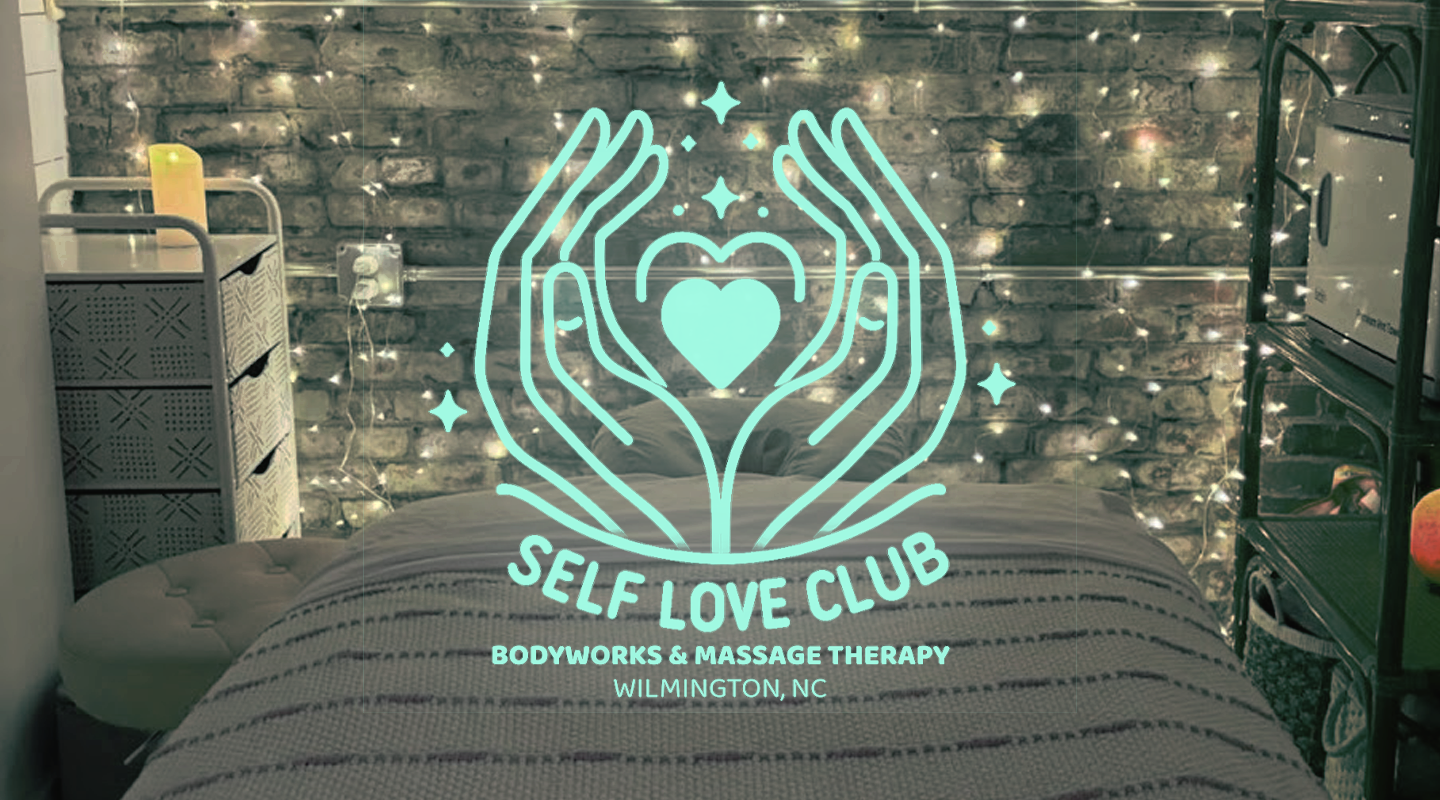
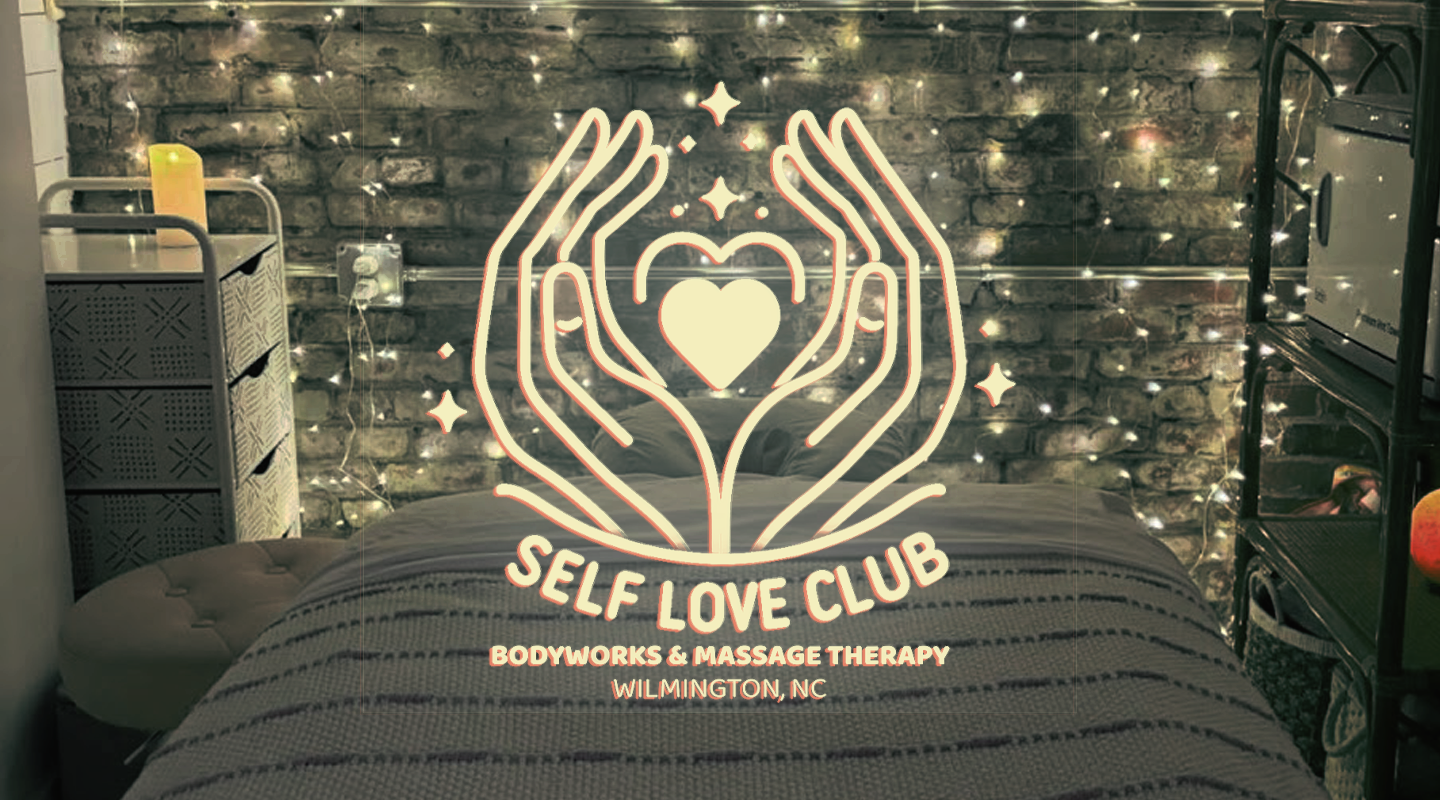
edited styles

Changed region(s): [[0.2812, 0.0938, 0.7188, 0.875]]

diff --git a/app/(root)/blog/page.tsx b/app/(root)/blog/page.tsx
@@ -1,46 +1,22 @@
-
+// page.tsx
 import Background from "@/components/shared/background";
 import Services from "@/components/shared/services";
 import Hours from "@/components/shared/hours";
 import Location from "@/components/shared/location";
-import Link from "next/link";
 import ThemeToggle from "@/components/shared/theme-toggle";
-
-
+import Link from "next/link";
+import BlogFeed from "@/components/blog/blog-feed";
 
 async function Blog() {
-
   return (
-    <section className='main-container'>
+    <section className="main-container">
       <Background />
-        <h1 className="pageTitle">SELF LOVE BLOG</h1>
-
-        <Link  href="/blog/common-myths-about-massage-therapy-debunked" className="flex mx-auto font-black p-4 text-xl hover:text-teal-700">Common Myths About Massage Therapy Debunked</Link>
-
-        <Link  href="/blog/how-massage-therapy-helps-reduce-inflammation" className="flex mx-auto font-black p-4 text-xl hover:text-teal-700">How Massage Therapy Helps Reduce Inflammation</Link>
-
-        <Link  href="/blog/how-massage-therapy-supports-emotional-well-being" className="flex mx-auto font-black p-4 text-xl hover:text-teal-700">How Massage Therapy Supports Emotional Well-being</Link>
-
-        <Link  href="/blog/massage-and-mobility-improving-your-range-of-motion" className="flex mx-auto font-black p-4 text-xl hover:text-teal-700">Massage and Mobility: Improving Your Range of Motion</Link>
-
-        <Link  href="/blog/stress-and-shoulder-tension-the-connection" className="flex mx-auto font-black p-4 text-xl hover:text-teal-700">Stress and Shoulder Tension: The Connection</Link>
-
-        <Link  href="/blog/the-amazing-benefits-of-pregnancy-massage" className="flex mx-auto font-black p-4 text-xl hover:text-teal-700">The Amazing Benefits of Pregnancy Massage: Relief for Back and Leg Pain</Link>
-
-        <Link  href="/blog/the-importance-of-self-care-during-stressful-times" className="flex mx-auto font-black p-4 text-xl hover:text-teal-700">The Importance of Self-Care During Stressful Times</Link>
-
-        <Link  href="/blog/why-consistency-matters" className="flex mx-auto font-black p-4 text-xl hover:text-teal-700">Why Consistency Matters: The Benefits of Regular Massage</Link>
-
-        <Link  href="/blog/why-massage-should-be-part-of-your-marathon-training" className="flex mx-auto font-black p-4">Why Massage Should Be Part of Your Marathon Training</Link>
-
-        <Link  href="/blog/why-neck-pain-is-so-common-and-how-massage-helps" className="flex mx-auto font-black p-4 pb-4">Why Neck Pain Is So Common and How Massage Helps</Link>
-        <br />
-        <br />
-        <br />
-        <Services />
-        <Hours />
-        <Location />
-        <ThemeToggle />
+      <h1 className="pageTitle text-4.4rem sm:text-2.2rem font-black pt-29 pb-12">SELF LOVE BLOG</h1>
+      <BlogFeed />
+      <Services />
+      <Hours />
+      <Location />
+      <ThemeToggle />
     </section>
   );
 }

diff --git a/lib/blog-index.ts b/lib/blog-index.ts
@@ -1,0 +1,63 @@
+export const blogPost = [
+    {
+      title: "Stress and Shoulder Tension: The Connection",
+      url: "/blog/stress-and-shoulder-tension-the-connection",
+      snippet: "Learn how stress contributes to shoulder tension and how massage therapy can help alleviate it.",
+      image: "",
+    },
+    {
+      title: "How Massage Therapy Helps Reduce Inflammation",
+      url: "/blog/how-massage-therapy-helps-reduce-inflammation",
+      snippet: "Discover how massage therapy can reduce inflammation and promote overall well-being.",
+      image: "",
+    },
+    {
+      title: "Common Myths About Massage Therapy Debunked",
+      url: "/blog/common-myths-about-massage-therapy-debunked",
+      snippet: "Uncover the truth behind some of the most common myths surrounding massage therapy.",
+      image: "",
+    },
+    {
+      title: "The Importance of Self-Care During Stressful Times",
+      url: "/blog/the-importance-of-self-care-during-stressful-times",
+      snippet: "Why self-care is more crucial than ever in times of stress, and how massage can help.",
+      image: "",
+    },
+    {
+      title: "How Massage Therapy Supports Emotional Well-being",
+      url: "/blog/how-massage-therapy-supports-emotional-well-being",
+      snippet: "Explore the emotional benefits of regular massage therapy sessions.",
+      image: "",
+    },
+    {
+      title: "Massage and Mobility: Improving Your Range of Motion",
+      url: "/blog/massage-and-mobility-improving-your-range-of-motion",
+      snippet: "How massage therapy can help enhance your flexibility and range of motion.",
+      image: "",
+    },
+    {
+      title: "Why Neck Pain Is So Common and How Massage Helps",
+      url: "/blog/why-neck-pain-is-so-common-and-how-massage-helps",
+      snippet: "Understanding the causes of neck pain and how massage can provide relief.",
+      image: "",
+    },
+    {
+      title: "Why Massage Should Be Part of Your Marathon Training",
+      url: "/blog/why-massage-should-be-part-of-your-marathon-training",
+      snippet: "Learn why incorporating massage into your marathon training is essential for recovery.",
+      image: "",
+    },
+    {
+      title: "Why Consistency Matters: The Benefits of Regular Massage",
+      url: "/blog/why-consistency-matters",
+      snippet: "Discover the benefits of consistent, regular massage therapy sessions.",
+      image: "",
+    },
+    {
+      title: "The Amazing Benefits of Pregnancy Massage: Relief for Back and Leg Pain",
+      url: "/blog/the-amazing-benefits-of-pregnancy-massage",
+      snippet: "How pregnancy massage provides relief for back and leg pain during pregnancy.",
+      image: "",
+    },
+  ];
+  

diff --git a/components/blog/blog-feed.tsx b/components/blog/blog-feed.tsx
@@ -1,0 +1,74 @@
+"use client"
+
+import Link from "next/link";
+import { blogPost } from "@/lib/blog-index"; // Import blog data
+import SectionHeading from "../shared/section-heading";
+import { motion } from "framer-motion";
+import Tooltip from "@/components/ui/tooltip";
+
+const fadeInAnimationVariants = {
+  initial: {
+    opacity: 0,
+    y: 100,
+  },
+  animate: (index: number) => ({
+    opacity: 1,
+    y: 0,
+    transition: {
+      delay: 0.05 * index,
+    },
+  }),
+};
+
+export default function BlogFeed() {
+    return (
+      <section
+        id="BlogPosts"
+        className="max-w-[53rem] scroll-mt-22 text-center sm:mb-20"
+      >
+          <motion.div
+              initial={{
+                  opacity: 0,
+                  }}
+              whileInView={{
+                  opacity: 1,
+                  }}
+              transition={{
+                  duration: 1,
+                  }}
+              viewport={{
+                  once: true,
+                  }}
+              >
+            <SectionHeading>BLOG POSTS</SectionHeading>
+            <section className="max-w-4xl tracking-widest mx-auto pb-9 font-black text-xl">
+            <ul className="flex flex-wrap justify-center text-5xl gap-2 text-gray-800">
+
+                {blogPost.map((post, index) => (
+                <motion.li
+                    className="bg-slate-50 hover:bg-[#f4f0bf] border-dark-1 rounded-xl px-2 py-2 shadow-sm"
+                    key={index}
+                    variants={fadeInAnimationVariants}
+                    initial="initial"
+                    whileInView="animate"
+                    viewport={{ once: true }}
+                    custom={index}
+                >
+                    <Tooltip content={post.snippet} position="top">
+                        <Link
+                            key={post.url}
+                            href={post.url}
+                            className="mx-auto flex p-4 hover:text-teal-700"
+                        >
+                            {post.title}
+                        </Link>
+                    </Tooltip>
+                </motion.li>
+                ))}
+            </ul>
+            </section>
+          </motion.div>
+      </section>
+    );
+  }
+  

diff --git a/components/ui/button.tsx b/components/ui/button.tsx
@@ -8,12 +8,12 @@ const ButtonVariants = cva(
   {
     variants: {
       variant: {
-        default: 'bg-emerald-200 text-primary-foreground hover:bg-green-100',
-        secondary: 'bg-[#a8aeaf] text-[#03090a] hover:bg-gray-600',
-        outline: 'border border-primary text-primary hover:bg-gray-100',
-        ghost: 'bg-transparent text-[#a8aeaf] hover:bg-gray-100',
-        link: 'hover:text-blue-500 underline-offset-4 hover:underline',
-        destructive: 'bg-[#ff4431] text-white hover:bg-red-600',
+        default: 'bg-[#9ccc8e] text-primary-foreground hover:bg-[#f4f0bf] dark:bg-[#e78167] dark:text-white dark:hover:bg-[#c8c49e]',
+        secondary: 'bg-[#a8aeaf] text-[#03090a] hover:bg-gray-600 dark:bg-gray-700 dark:text-white dark:hover:bg-gray-500',
+        outline: 'border border-primary text-primary hover:bg-gray-100 dark:border-gray-500 dark:text-gray-100 dark:hover:bg-gray-800',
+        ghost: 'bg-transparent text-[#a8aeaf] hover:bg-gray-100 dark:text-gray-300 dark:hover:bg-gray-800',
+        link: 'hover:text-blue-500 underline-offset-4 hover:underline dark:hover:text-blue-300',
+        destructive: 'bg-[#ff4431] text-white hover:bg-red-600 dark:bg-red-700 dark:text-white dark:hover:bg-red-800',
       },
       shape: {
         square: 'rounded-none',

diff --git a/components/shared/services.tsx b/components/shared/services.tsx
@@ -46,7 +46,7 @@ export default function Services() {
         <ul className="flex flex-wrap justify-center text-5xl gap-2 text-gray-800">
             {services.map((service, index) => (
             <motion.li
-                className="bg-slate-50 hover:bg-sky-200 border-dark-1 rounded-xl px-2 py-2 shadow-sm"
+                className="bg-slate-50 hover:bg-[#c1cbbe] border-dark-1 rounded-xl px-2 py-2 shadow-sm "
                 key={index}
                 variants={fadeInAnimationVariants}
                 initial="initial"
@@ -62,7 +62,7 @@ export default function Services() {
             </motion.li>
             ))}
         </ul>
-        <Image src="/assets/slc_hrt02.svg" width={129} height={129} alt="Self Love Club massage and bodyworks | Wilmington, NC" className="mx-auto pt-11"/>
+        <Image src="/assets/slc_hrt02.svg" width={129} height={129} alt="Self Love Club massage and bodyworks | Wilmington, NC" className="mx-auto pt-11 dark:invert"/>
       </motion.div>
     </section>
   );

diff --git a/components/shared/rates.tsx b/components/shared/rates.tsx
@@ -25,7 +25,7 @@ const Rates = () => {
               >
       <div className='grid lg:grid-cols-3 gap-9'>
         {RateCards.map((path, index) => (
-          <div key={index} className='p-5 rounded-lg shadow-md bg-[#f8fafc] hover:bg-green-100'>
+          <div key={index} className='p-5 rounded-lg shadow-md bg-[#f8fafc] hover:bg-[#d9b0a0]'>
             <Link href="https://book.squareup.com/appointments/ztx8b05cyeal1q/location/L74GM8H49A0WS/services?buttonTextColor=000000&color=a9fae0&locale=en&referrer=so">
             <Image
               src={path}
@@ -39,7 +39,7 @@ const Rates = () => {
         ))}
         
       </div>
-      <Image src="/assets/slc_hrt05.svg" width={129} height={129} alt="Self Love Club massage and bodyworks | Wilmington, NC" className="mx-auto pt-11"/>
+      <Image src="/assets/slc_hrt05.svg" width={129} height={129} alt="Self Love Club massage and bodyworks | Wilmington, NC" className="mx-auto pt-11 dark:invert"/>
       </motion.div>
     </section>
   );

diff --git a/components/shared/title.tsx b/components/shared/title.tsx
@@ -27,7 +27,7 @@ const Title = () => {
                 <span className=" text-[25px] italic font-light tracking-widest p-3"> located off 
                 <span className=" text-[44px] font-bold tracking-widest"> Castle<span className="not-italic font-extralight tracking-widest p-2">X</span>9th</span>
                 </span></p>
-                <Image src="/assets/slc_hrt01.svg" width={88} height={88} alt="Self Love Club massage and bodyworks | Wilmington, NC" className="mx-auto"/>
+                <Image src="/assets/slc_hrt01.svg" width={88} height={88} alt="Self Love Club massage and bodyworks | Wilmington, NC" className="mx-auto dark:invert"/>
             </div>
         </motion.div>
       );

diff --git a/components/shared/about.tsx b/components/shared/about.tsx
@@ -30,7 +30,7 @@ const About = () => {
           <span className="not-italic font-bold pl-8">- Amanda / Owner</span>
         </p>
         </motion.div>
-        <Image src="/assets/slc_hrt03.svg" width={129} height={129} alt="Self Love Club massage and bodyworks | Wilmington, NC" className="mx-auto pt-11"/>
+        <Image src="/assets/slc_hrt03.svg" width={129} height={129} alt="Self Love Club massage and bodyworks | Wilmington, NC" className="mx-auto pt-11 dark:invert"/>
 
       </section>
     );

diff --git a/app/(root)/blog/[...slug]/page.tsx b/app/(root)/blog/[...slug]/page.tsx
@@ -50,7 +50,7 @@ export default async function ComponentsDoc({ params }: DocPageProps) {
   return (
       <div className='flex justify-center lg:ml-[250px] min-[1395px]:ml-[0px]'>
         <div className='mb-[100px] mt-[70px] h-full w-full max-w-4xl px-5 py-7 lg:mt-[100px]'>
-          <div className='flex flex-col justify-center gap-14'>
+          <div className='flex flex-col justify-center gap-14 pt-[2rem]'>
             <Post components={components as any} />
           </div>
         </div>

diff --git a/components/shared/hours.tsx b/components/shared/hours.tsx
@@ -43,7 +43,7 @@ const Hours = () => {
         </ul>
       </div>
       </Link>
-      <Image src="/assets/slc_hrt04.svg" width={129} height={129} alt="Self Love Club massage and bodyworks | Wilmington, NC" className="mx-auto pt-11"/>
+      <Image src="/assets/slc_hrt04.svg" width={129} height={129} alt="Self Love Club massage and bodyworks | Wilmington, NC" className="mx-auto pt-11 dark:invert"/>
       </motion.div>
     </section>
   );

diff --git a/components/shared/topbar.tsx b/components/shared/topbar.tsx
@@ -22,7 +22,7 @@ function Topbar() {
                 </Link>
             </div>
             <div className="book-btn flex items-center sm:w-1/3 sm:justify-end sm:order-last order-last mt-2 sm:mt-0">
-                <Button onClick={handleClick} variant="default" size="xl" >
+                <Button onClick={handleClick} variant="default" size="xl">
                     Book Now
                 </Button>
             </div>

diff --git a/lib/data.ts b/lib/data.ts
@@ -75,9 +75,9 @@ export const services = [
   ] as const;
 
 export const RateCards = [
-    "/assets/slc_rateCard060.png",
-    "/assets/slc_rateCard090.png",
-    "/assets/slc_rateCard120.png",
+    "/assets/slc_rate060.png",
+    "/assets/slc_rate090.png",
+    "/assets/slc_rate120.png",
   ];
 
 export const hours = [
